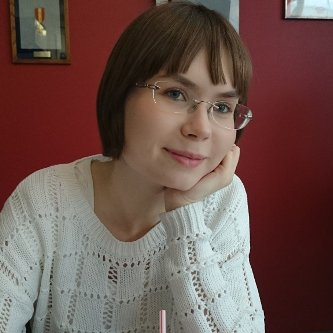
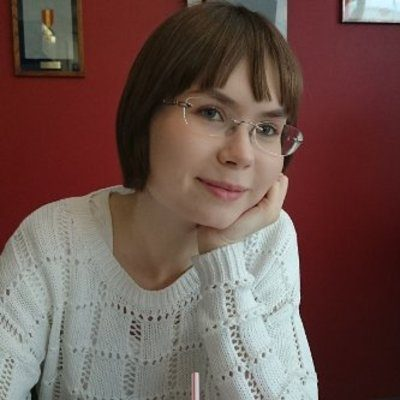
Compressed judges images. Added agenda. Removed lisstyletype from agenda

diff --git a/src/components/Agenda.vue b/src/components/Agenda.vue
@@ -29,18 +29,18 @@
             <div class="col-sm-6">
                 <div class="card">
                   <div class="card-body">
-                    <h5 class="card-name">Thursday 28 February</h5>
+                    <h5 class="card-name">Friday 01 February</h5>
                     <p class="card-text">
                        <ul>
-                        <li>0800 Check-in and rigging</li>
-                        <li>0900 Welcome and Keynote</li>
-                        <li>1000 Team presentations</li>
-                        <li>1030 Challenge kick-off</li>
+                        <li>0800 Breakfast</li>
+                        <li>0900 Challenge session</li>
                         <li>1200 Lunch</li>
-                        <li>1215 Secret session</li>
+                        <li>1245 Secret session</li>
+                        <li>1430 Challenge session</li>
                         <li>1600 Jury Duty & Snacks</li>
                         <li>1900 Points & Crowns</li>
-                        <li>1900 Dinner & Geekbeer</li>
+                        <li>1930 Geekfood + Geekbeer</li>
+                        <li>2030 Kahoot</li>
                       </ul>                  
                     </p>
                 </div>
@@ -49,18 +49,19 @@
             <div class="col-sm-6">
                 <div class="card">
                   <div class="card-body">
-                    <h5 class="card-name">Thursday 28 February</h5>
+                    <h5 class="card-name">Saturday 02 February</h5>
                     <p class="card-text">
                        <ul>
-                        <li>0800 Check-in and rigging</li>
-                        <li>0900 Welcome and Keynote</li>
-                        <li>1000 Team presentations</li>
-                        <li>1030 Challenge kick-off</li>
+                        <li>0800 Breakfast</li>
+                        <li>0900 Challenge session</li>
                         <li>1200 Lunch</li>
-                        <li>1215 Secret session</li>
-                        <li>1600 Jury Duty & Snacks</li>
-                        <li>1900 Points & Crowns</li>
-                        <li>1900 Dinner & Geekbeer</li>
+                        <li>1600 Final Jury Delivery</li>
+                        <li>Clean out the hackaton room !</li>
+                        <li>1700 Free time + make awsome product presentations</li>
+                        <li>1900 Meetup @ bar</li>
+                        <li>1930 Challenge fine dinner</li>
+                        <li>2100 Demos & Awards</li>
+                        <li>2230 ACDC Party</li>
                       </ul>                  
                     </p>
                 </div>
@@ -69,18 +70,11 @@
             <div class="col-sm-6">
                 <div class="card">
                   <div class="card-body">
-                    <h5 class="card-name">Thursday 28 February</h5>
+                    <h5 class="card-name">Sunday 03 February</h5>
                     <p class="card-text">
                        <ul>
-                        <li>0800 Check-in and rigging</li>
-                        <li>0900 Welcome and Keynote</li>
-                        <li>1000 Team presentations</li>
-                        <li>1030 Challenge kick-off</li>
-                        <li>1200 Lunch</li>
-                        <li>1215 Secret session</li>
-                        <li>1600 Jury Duty & Snacks</li>
-                        <li>1900 Points & Crowns</li>
-                        <li>1900 Dinner & Geekbeer</li>
+                        <li>0800 Breakfast</li>
+                        <li>1100 Latest check-out</li>
                       </ul>                  
                     </p>
                 </div>

diff --git a/src/components/Home.vue b/src/components/Home.vue
@@ -70,7 +70,7 @@
                     <div class="card-chris"></div>
                     <h5 class="card-name">Chris Huntingford</h5>
                     <p class="card-text">
-                     Solution Architect at Hitachi Solutions, Ltd & Microsoft MVP in Business Applications.
+                      A passionate, overly enthusiastic, beer loving, drum smashing, guitar weilding Dynamics 365 & Power Platform Presales Solution architect and Business Applications MVP. Originally from South Africa, where he started working with Dynamics in the Microsoft channel 10 years ago. Chris has worked within multiple industries, multiple roles and within every module in Dynamics 365 Customer Engagement.
                     </p>
                   </div>
                 </div>

diff --git a/src/App.vue b/src/App.vue
@@ -241,6 +241,9 @@ h6 {
   padding: 20px;
   text-align: left;
 }
+.agenda ul {
+  list-style-type: none;
+}
 .agenda .title {
   text-align: center;
   margin-bottom: 30px;
